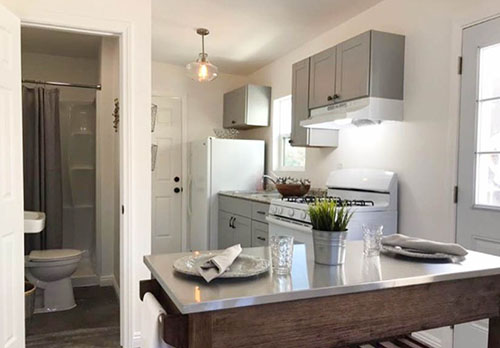
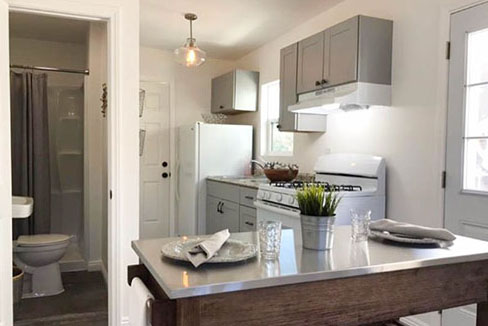
added images

diff --git a/work.html b/work.html
@@ -112,19 +112,19 @@
 <!-- Full-width images with number and caption text -->
 <div class="mySlides fade">
   <div class="numbertext">1 / 3</div>
-  <img src="../images/modern_retreat/modern_studio_1.jpg" style="width:100%">
+  <img src="images/modern_retreat/modern_studio_2.jpg" style="width:100%">
   <!--<div class="text">AFTER</div>-->
 </div>
 
 <div class="mySlides fade">
   <div class="numbertext">2 / 3</div>
-  <img src="../images/modern_retreat/modern_studio_2.jpg" style="width:100%">
+  <img src="images/modern_retreat/modern_studio_4.jpg" style="width:100%">
   <!--<div class="text">AFTER</div>-->
 </div>
 
 <div class="mySlides fade">
   <div class="numbertext">3 / 3</div>
-  <img src="../images/modern_retreat/modern_studio_3.jpg" style="width:100%">
+  <img src="images/modern_retreat/modern_studio_2.jpg" style="width:100%">
   <!--<div class="text">AFTER</div>-->
 </div>
 
@@ -171,20 +171,79 @@
 
      <!--column-->
       <div class="col work_photo_1 text-center">
-        <img src="images/modern_retreat/modern_studio_3.jpg" alt="" width="485">
+        <img src="images/beach_cottage/beach_cottage_4.jpg" alt="" width="485">
       </div>
       <!--column-->
 
       <!--column-->
       <div class="col work_photo_2 text-center">
-        <img src="images/modern_retreat/modern_studio_1.jpg" alt="" width="485">
+        <img src="images/beach_cottage/beach_cottage_5.jpg" alt="" width="485">
       </div>
       <!--column-->
 
     </div>
 
   </div>
-<!--GALLERY 1-->
+<!--GALLERY 2-->
+
+
+<!--PHOTO GALLERY 2-->
+  <!-- Slideshow container -->
+<div class="slideshow-container">
+
+<!-- Full-width images with number and caption text -->
+<div class="mySlides fade">
+  <div class="numbertext">1 / 3</div>
+  <img src="images/beach_cottage/beach_cottage_1.jpg" style="width:100%">
+  <!--<div class="text">AFTER</div>-->
+</div>
+
+<div class="mySlides fade">
+  <div class="numbertext">2 / 3</div>
+  <img src="images/beach_cottage/beach_cottage_2.jpg" style="width:100%">
+  <!--<div class="text">AFTER</div>-->
+</div>
+
+<div class="mySlides fade">
+  <div class="numbertext">3 / 3</div>
+  <img src="images/beach_cottage/beach_cottage_3.jpg" style="width:100%">
+  <!--<div class="text">AFTER</div>-->
+</div>
+
+<!-- Next and previous buttons -->
+<a class="prev" onclick="plusSlides(-1)">&#10094;</a>
+<a class="next" onclick="plusSlides(1)">&#10095;</a>
+</div>
+<br>
+
+<!-- The dots/circles -->
+<div style="text-align:center">
+<span class="dot" onclick="currentSlide(1)"></span>
+<span class="dot" onclick="currentSlide(2)"></span>
+<span class="dot" onclick="currentSlide(3)"></span>
+</div>
+<!--PHOTO GALLERY 2-->
+
+
+<!--PROJECT DESCRIPTION 2-->
+<div class="container-fluid">
+
+  <div class="row project_1">
+
+    <div class="col-md-9">
+
+    <h2>Modern Studio</h2>
+
+    <p>This cozy, modern studio began as a one car garage! Swipe to see
+      the before and after.</p>
+
+    </div>
+
+  </div>
+
+</div>
+<!--PROJECT DESCRIPTION 2-->
+
 
 
 <!--FOOTER-->
